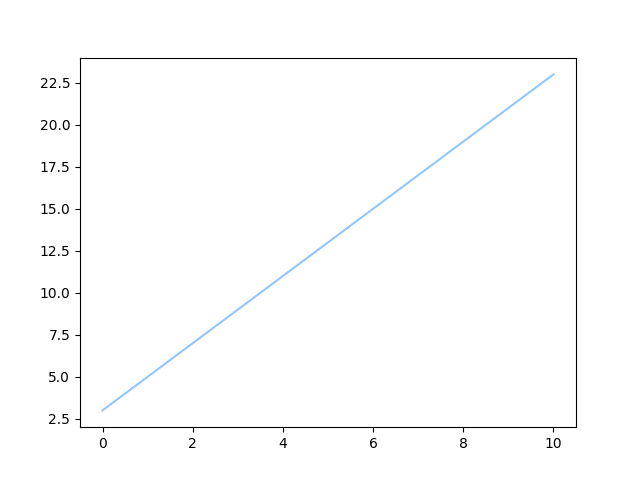
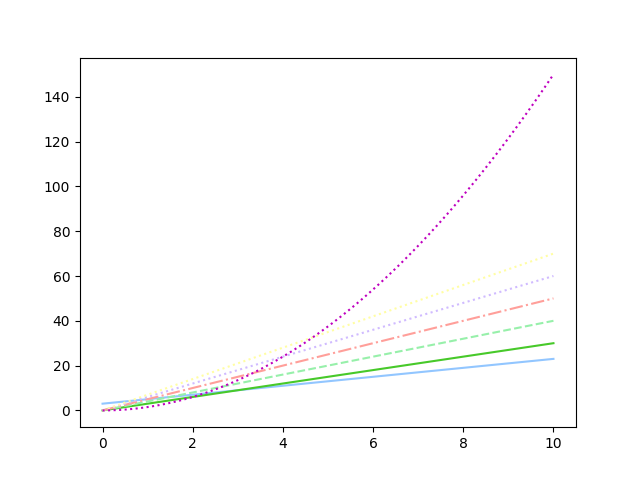
issues with fig3, but we did more

diff --git a/lineplot.py b/lineplot.py
@@ -15,4 +15,26 @@ fig = plt.figure()
 ax = plt.axes()
 
 ax.plot(x_vals, 2*(x_vals)+3)
+ax.plot(x_vals, 3*(x_vals), color='#47c92a')
+ax.plot(x_vals, 4*(x_vals), linestyle='dashed')
+ax.plot(x_vals, 5*(x_vals), linestyle='dashdot')
+ax.plot(x_vals, 6*(x_vals), linestyle='dotted')
+ax.plot(x_vals, 7*(x_vals), linestyle='dotted')
+
+ax.plot(x_vals, 1.5*(x_vals)*(x_vals), ':m')
 fig.savefig('lineplot2.png')
+
+#demo on cusotmaztion 
+fig3 = plt.figure()
+
+
+plt.plot(x_vals, np.sin(x_vals))
+plt.xlim(-1, 11)
+plt.ylim(-3.14, np.pi)
+plt.axis('tight')
+#other options; 'equal',image 
+plt.title("a sign wave")
+plt.xlabel("x")
+plt.ylabel("sin(x)")
+plt.legend()
+fig3.savefig('lineplot3.pdf')
